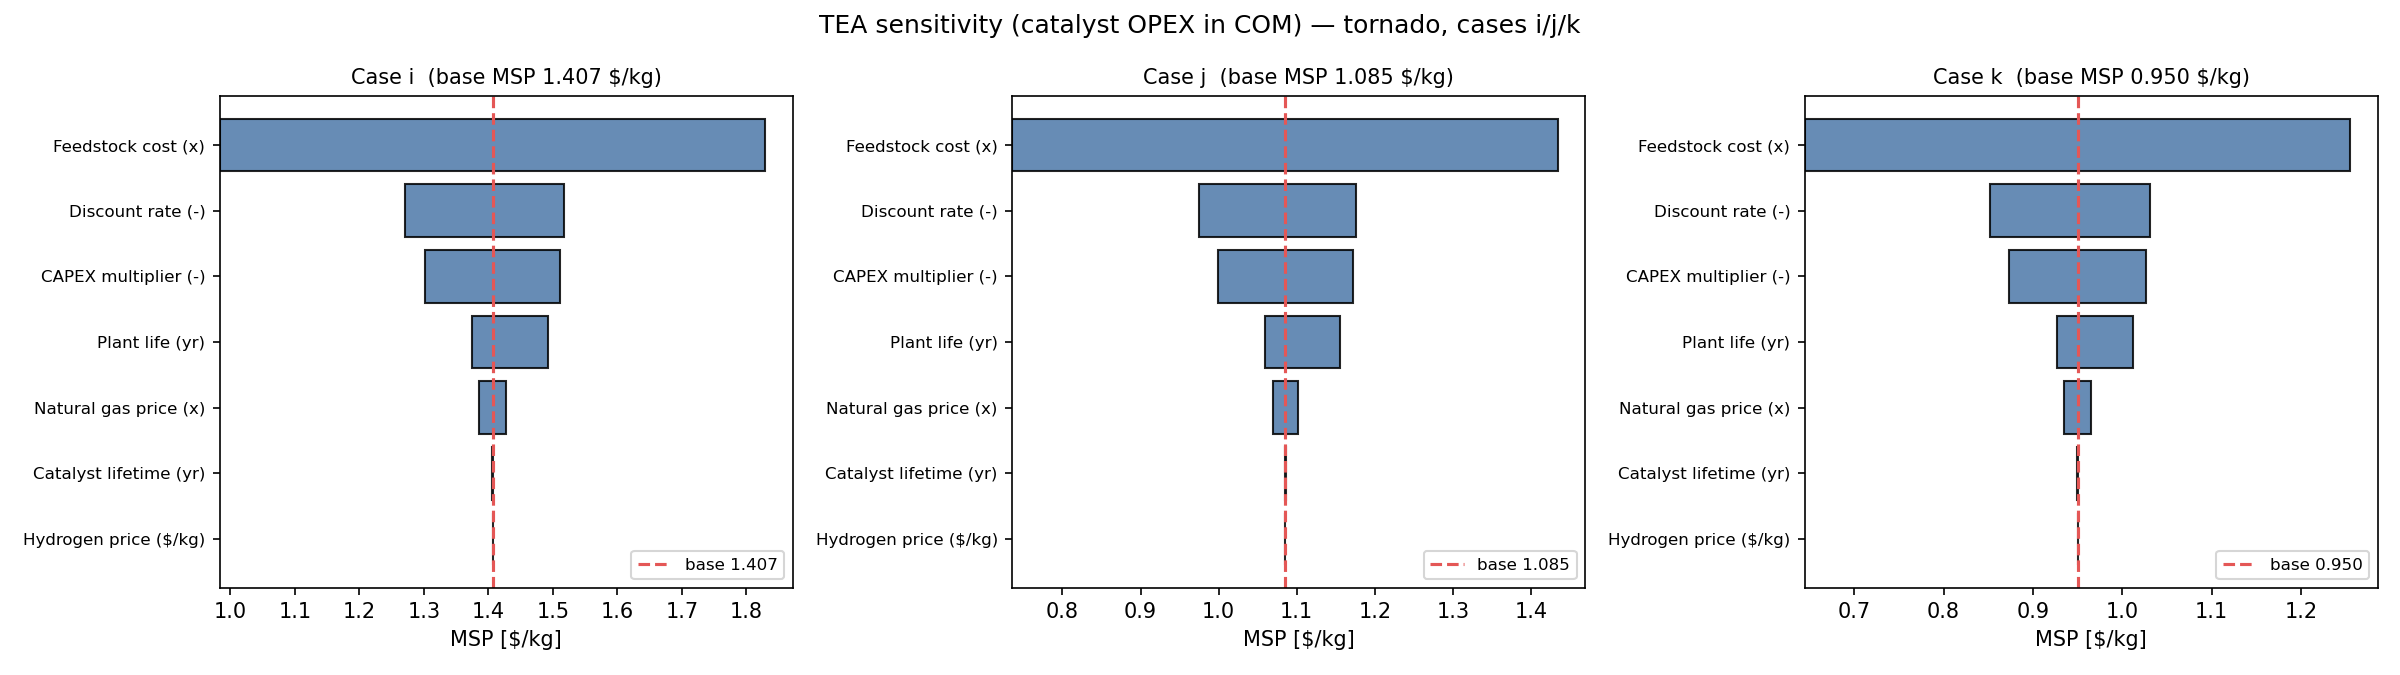
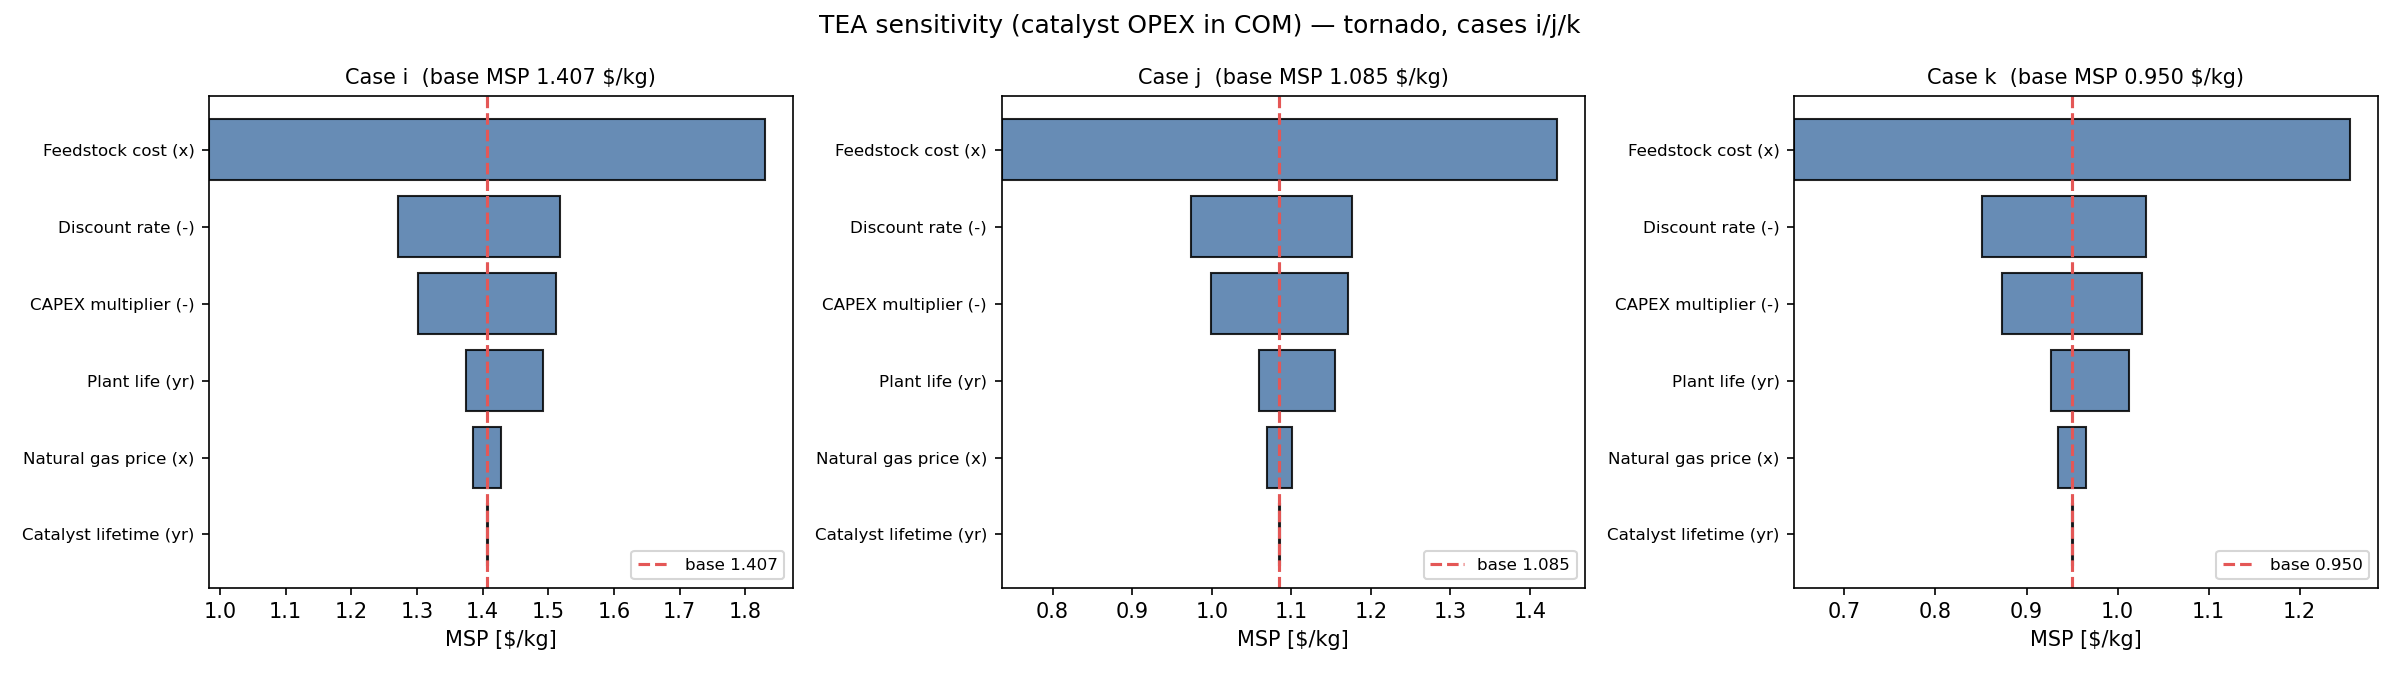
Discard H2 price from TEA cost-parameter SA (no external H2 source)
H2 is produced internally by SMR of light process gases; the cash-flow model
has no H2 purchase term (C_feed = biomass + NG only), so H2 price had zero MSP
swing. Removed the Hydrogen price sweep from run_sa_ijk.py and SA_driver.m,
dropped the dead skip guard in plot_sa_ijk.py, updated README/RESULTS, and added
a dated decision-log entry. Regenerated sa_oat_ijk.csv, sa_tornado_ijk.csv,
tornado_ijk.png.

Claude-Session: https://claude.ai/code/session_01X1rErDywrJnKQrxkbG3xXS

diff --git a/sa/SA_driver.m b/sa/SA_driver.m
@@ -56,10 +56,9 @@ fprintf('  delta from costing catalyst replacement:    %+.4f $/kg\n', MSP_base -
 %% ---- Parameter definitions --------------------------------------------
 % Each row: display name | override key | base value | grid (row vector)
 % Grids are chosen from the model's own base values and literature bounds.
-bBIO = baseCOST.BIOMASS;  bH2 = baseCOST.H2;  bNG = baseCOST.NG;
+bBIO = baseCOST.BIOMASS;  bNG = baseCOST.NG;
 P = {
 %   name                         key              base            grid
-   'Hydrogen price ($/kg)'      ,'H2'            , bH2           , [1.00 1.50 2.00 2.50 3.34]
    'Feedstock cost ($/kg)'      ,'BIOMASS'       , bBIO          , bBIO*[0.50 0.75 1.00 1.25 1.50]
    'Catalyst lifetime (yr)'     ,'catalyst_year' , baseCOST.catalyst.year , [1 2 3 4 5]
    'Discount rate (-)'          ,'irate'         , baseCOST.irate, [0.08 0.10 0.12 0.15 0.18 0.20]

diff --git a/sa/run_sa_ijk.py b/sa/run_sa_ijk.py
@@ -7,7 +7,6 @@ cases=m.cases; solve=m.solve_msp
 # parameter grids (from sa/SA_driver.m)
 def sweeps():
     return [
-      ('Hydrogen price ($/kg)','H2',      [1.00,1.50,2.00,2.50,3.34], lambda v:{}),  # inert: no H2 term
       ('Feedstock cost (x)',   'bio_mult',[0.50,0.75,1.00,1.25,1.50], lambda v:{'bio_mult':v}),
       ('Catalyst lifetime (yr)','cat_year',[1,2,3,4,5],               lambda v:{'cat_year':v,'cat_replace':True}),
       ('Discount rate (-)',    'irate',   [0.08,0.10,0.12,0.15,0.18,0.20], lambda v:{'irate':v}),

diff --git a/sa/plot_sa_ijk.py b/sa/plot_sa_ijk.py
@@ -39,7 +39,6 @@ fig.tight_layout(); fig.savefig(os.path.join(SADIR,'tornado_ijk.png'),dpi=150); 
 fig,axs=plt.subplots(1,3,figsize=(16,4.5))
 for ax,c in zip(axs,CASES):
     for name,pts in oat[c].items():
-        if name.startswith('Hydrogen'): continue  # inert, flat
         pts=sorted(pts)
         xs=[p[0] for p in pts]; ys=[p[1] for p in pts]
         # x as % deviation from central grid value

diff --git a/sa/RESULTS_ijk_catalystOPEX.md b/sa/RESULTS_ijk_catalystOPEX.md
@@ -5,6 +5,9 @@ annualized OPEX = C_inventory / lifetime, in `C_util`/`COM`). Frozen Aspen
 results reused (no re-run); cash-flow ported from `sa/cash_flow_SA.m` and
 validated to reproduce each published MSP to 0.000%.
 
+## Decision log
+- **2026-07-31 — Hydrogen price sensitivity DISCARDED.** No external H₂ source: H₂ is produced internally by SMR of light process gases, so the cash-flow model carries no H₂ purchase cost (`C_feed` = biomass + NG only) and MSP swing is exactly 0.000 $/kg across 1.0–3.34 $/kg. Removed from the sweep (`run_sa_ijk.py`, `SA_driver.m`) rather than reported as a null result.
+
 ## Base MSP ($/kg)
 | case | published (no catalyst OPEX) | this TEA (catalyst replacement) | Δ |
 |---|---|---|---|
@@ -23,12 +26,11 @@ Catalyst OPEX raises MSP by ~0.03–0.04 % — negligible.
 | Plant life | 10–20 yr | 0.117 | 0.096 | 0.085 |
 | Natural gas price | ×0.5–1.5 | 0.043 | 0.032 | 0.031 |
 | Catalyst lifetime | 1–5 yr | 0.0012 | 0.0010 | 0.0009 |
-| Hydrogen price | 1.0–3.34 | 0.000 | 0.000 | 0.000 |
 
 ## Findings
 - **Feedstock cost dominates**, then discount rate ≈ CAPEX, then plant life. Same ranking all three cases.
 - **Catalyst lifetime is a live but tiny lever**: shorter life → higher MSP (correct direction), swing ~0.001 $/kg. Catalyst is ~0.05 % of OPEX.
-- **Hydrogen price has ZERO effect** — the published cash-flow model has **no H₂ purchase cost** (H₂ is produced internally by SMR of light gases; `C_feed` = biomass + NG only). The reviewer's H₂-price sensitivity cannot be answered without first adding an H₂ cost/credit term to the model. Flag for decision.
+- **Hydrogen price discarded** — the published cash-flow model has **no H₂ purchase cost** (H₂ is produced internally by SMR of light gases; `C_feed` = biomass + NG only), so H₂ price has zero effect on MSP. Removed from the sweep.
 
 ## Files
 - `sa_oat_ijk.csv`, `sa_tornado_ijk.csv` — data

diff --git a/sa/README.md b/sa/README.md
@@ -2,7 +2,8 @@
 
 Answers CEJ reviewer requests for a techno-economic sensitivity analysis of
 **MSP** (minimum selling price of SAF) w.r.t. **catalyst lifetime**,
-**hydrogen price**, **feedstock/pyrolysis-oil cost**, and general robustness.
+**feedstock/pyrolysis-oil cost**, and general robustness. (Hydrogen price
+discarded — model has no H₂ purchase term, so its MSP swing is zero.)
 
 ## Why this is separate from the existing SA
 `Sensitivity_1210/` and `to_Nurul_20260209/` sweep the *process/product
@@ -51,7 +52,6 @@ baseline (with replacement) so the delta is explicit.
 ## Parameters and ranges
 | Parameter | Base | Range | Basis |
 |---|---|---|---|
-| Hydrogen price | 1.3 $/kg | 1.0–3.34 $/kg | grey↔green literature spread (3.34 already cited in COST_PARAMETER) |
 | Feedstock cost | ~0.11 $/kg ($80/dry-ton) | ±50% | NREL feedstock, reviewer "feedstock variation" |
 | Catalyst lifetime | 3 yr | 1–5 yr | reviewer request |
 | Discount rate | 0.15 | 0.08–0.20 | standard TEA range |
